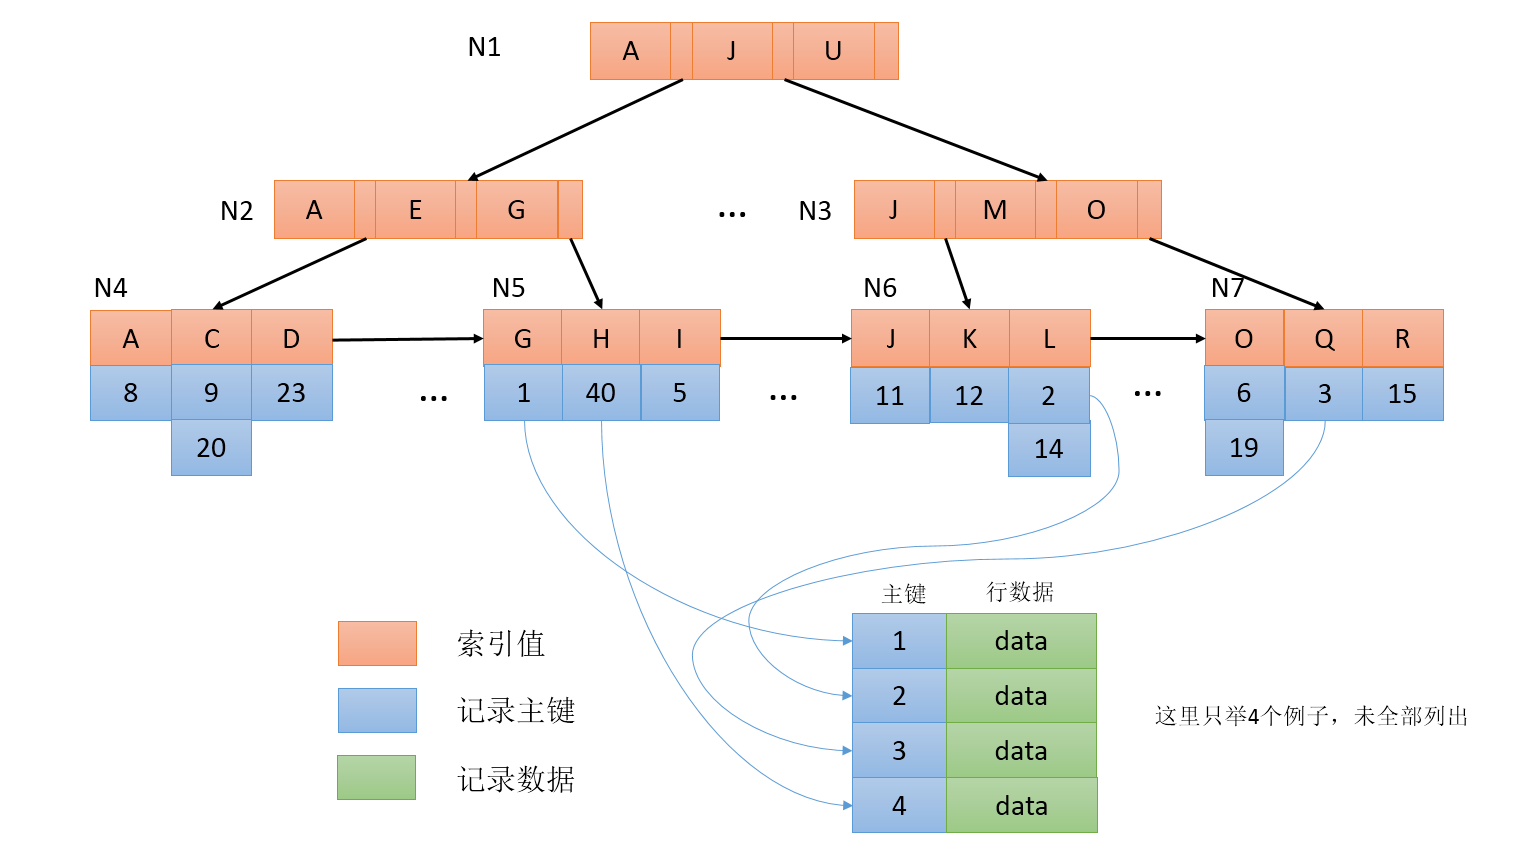
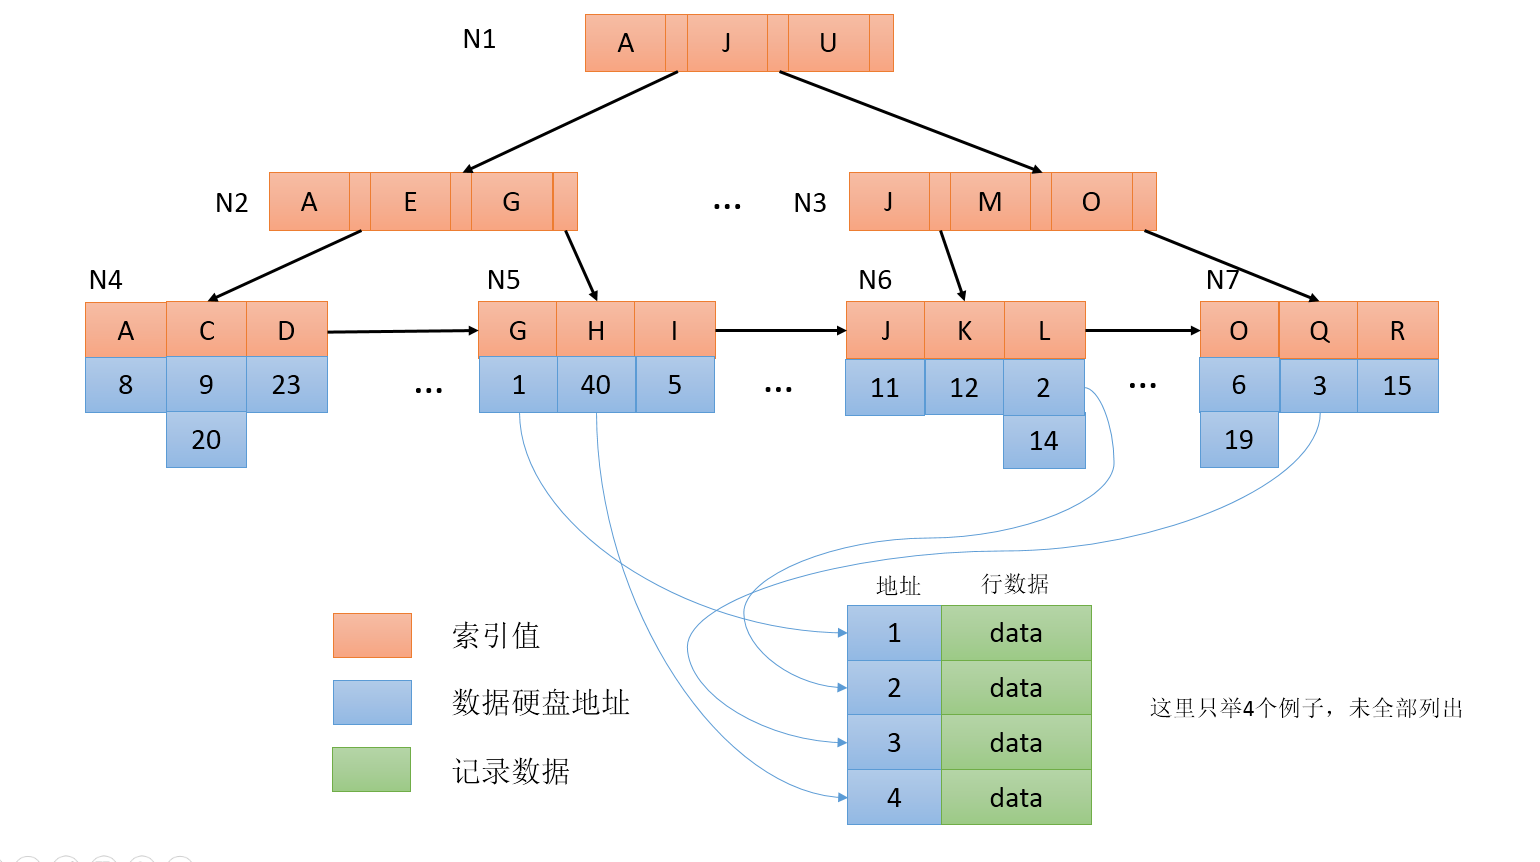
Mysql 5.7 索引使用规则和设计优化

diff --git a/_posts/2017-01-11-mysql-index-mechanism.md b/_posts/2017-01-11-mysql-index-mechanism.md
@@ -12,14 +12,14 @@ mathjax: true
 
 ## 1. Mysql 是如何使用索引的
 索引可以帮助我们快速的找到包含指定列值的行。假如没有索引的话，Mysql必须从第一行开始查找整个表，才能找到我们想要的那些行。如果没有索引，表越大，花费的时间也就越大。如果我们在查询条件中指定了某几个列的值，并且这个表恰好有一个建立在这些列上的索引，那么Mysql就可以从数据文件中快速的定位到数据所在的位置，而不用查找整个数据文件。这比不断的一行行读取数据快多了[1]。大部分Mysql索引（`Primary Key`、`Unique index`和`FullText`）都通过`B树`来存储和实现。也有一些例外：空间数据类型使用的索引是基于`R-树`的；`内存表`还支持`哈希索引`；InnoDB为`Fulltext`索引使用了`逆转链表`[1]。
-本文不打算去赘述B树的原理和创建过程，有兴趣的可以[点击B树了解](https://baike.baidu.com/item/B%E6%A0%91/5411672)。假设现在索引已经创建完毕了，那么Mysql是如何查找到我们需要的数据的呢？为了更好的说明这个过程，我们先来看下下方这张`B树`结构图（网上有很多这样的图，但令人满意的很少，要么索引值是数字，主键也是数字，令新手犯晕；要么就是没有画与数据行是怎么关联的；要么就是没有重复键值，新手仍然一头雾水）。
+本文不打算去赘述B树的原理和创建过程，有兴趣的可以[点击B树了解](https://baike.baidu.com/item/B%E6%A0%91/5411672)。假设现在索引已经创建完毕了，那么Mysql是如何查找到我们需要的数据的呢？为了更好的说明这个过程，我们先来看下下方这张`B树`结构图（网上有很多这样的图，但令人满意的很少，要么索引值是数字，地址也是数字，令新手犯晕；要么就是没有画与数据行是怎么关联的；要么就是没有重复键值，新手仍然一头雾水）。
 ![Mysql使用B树进行索引查找数据](/image/mysql-index/btree.png)
 图中使用了英文大写字母（ASCII码）来作为索引，对应实际场景中为字符串字段建立索引的情况。事实上所有的字符最终都是数字，这才使Mysql建立有序的B树成为可能。
 假设我们现在有这么一个查询语句(col为上图中建立索引的字段)：
 ```
 Select * from Table where col = 'C'
 ```
-那么Mysql索引查找器将会从根节点开始寻找“C”，C在“A-J”之间，搜索指针将会跳转到N2节点，继续查找发现在“A-E”之间，对应了N4节点，N4节点已经是根节点，在N4的第2个位置找到了C节点，共发现2条记录：9和20。下面就是如何读取9和20这两条数据了，由于计算机内存有限，且较硬盘来说小很多，也宝贵的多。所以一般情况下Mysql只把索引加载进内存，而数据块放在了硬盘中，图中为了表达清晰，叶子节点中存放的仅是主键的ID，实际情况时存放的还有记录所在的硬盘地址。知道了数据在磁盘中的存放地址后，就可以快速定位和获取数据了。
+那么Mysql索引查找器将会从根节点开始寻找“C”，C在“A-J”之间，搜索指针将会跳转到N2节点，继续查找发现在“A-E”之间，对应了N4节点，N4节点已经是根节点，在N4的第2个位置找到了C节点，共发现2条记录：9和20。下面就是如何读取9和20这两条数据了，由于计算机内存有限，且较硬盘来说小很多，也宝贵的多。所以一般情况下Mysql只把索引加载进内存，而数据块放在了硬盘中，叶子节点中存放的则是数据的地址。知道了数据在磁盘中的存放地址后，就可以快速定位和获取数据了。
 
 
 ### 1.1 Mysql索引选取规则
